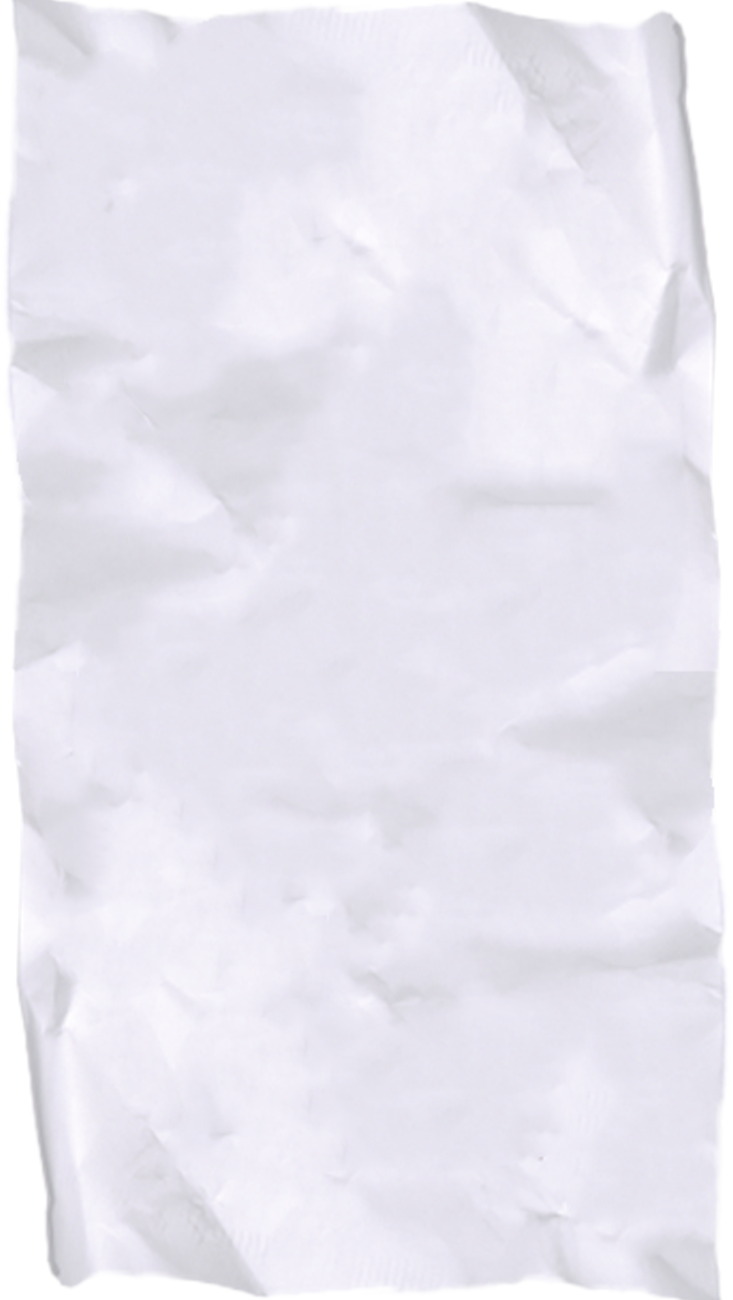
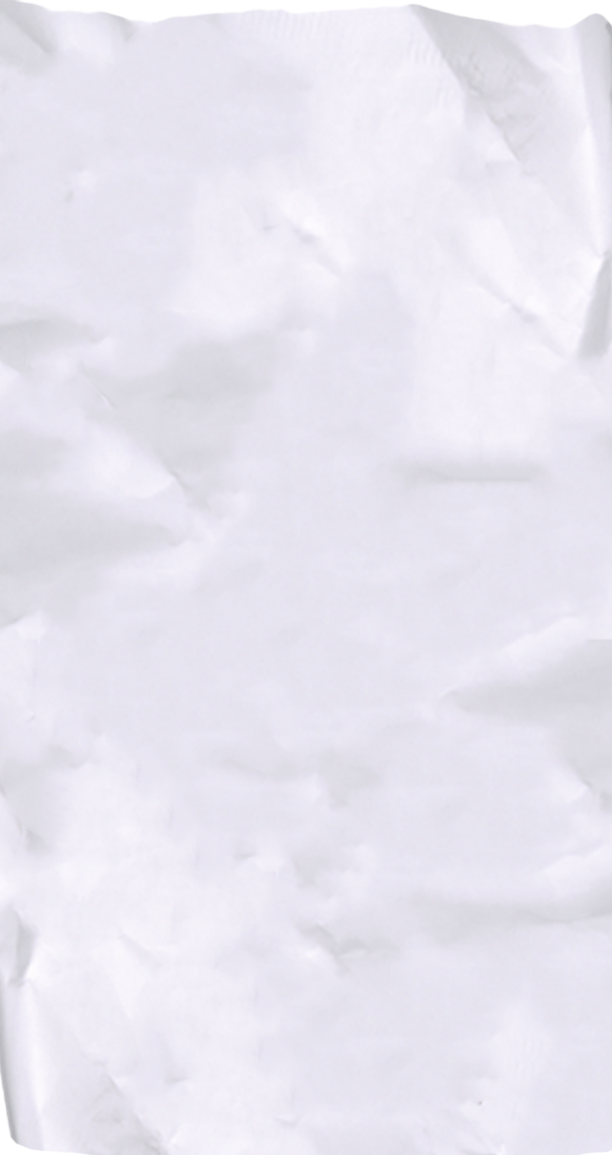
24

diff --git a/index.html b/index.html
@@ -3,12 +3,40 @@
 <head>
     <meta charset="UTF-8">
     <meta name="viewport" content="width=device-width, initial-scale=1.0">
-    <title>Portfolio</title>
+        <!-- SEO Meta Tags -->
+        <meta name="description" content="Victor De Geer is a creative designer and developer, specializing in UX/UI design, web development, and multimedia production. Explore his portfolio and projects.">
+        <meta name="keywords" content="Victor De Geer, designer, developer, UX design, web design, music production, video production, Adobe, Figma, Framer, HTML, CSS, JS, creative portfolio">
+        <meta name="author" content="Victor De Geer">
+    
+        <!-- Open Graph Meta Tags for Social Media -->
+        <meta property="og:title" content="Victor De Geer - Creative Designer & Developer">
+        <meta property="og:description" content="Victor De Geer is a creative designer & developer with expertise in UX/UI design, web programming, and multimedia production. Check out his portfolio!">
+        <meta property="og:image" content="kvittopreview.png"> <!-- Replace with a relevant image for preview -->
+        <meta property="og:url" content="https://vdgportfolio.netlify.app/"> <!-- Replace with your website URL -->
+    
+        <!-- Twitter Card Meta Tags -->
+        <meta name="twitter:card" content="summary_large_image">
+        <meta name="twitter:title" content="Victor De Geer - Creative Designer & Developer">
+        <meta name="twitter:description" content="Victor De Geer is a creative designer & developer with expertise in UX/UI design, web programming, and multimedia production. Check out his portfolio!">
+        <meta name="twitter:image" content="kvittopreview.png"> <!-- Replace with a relevant image for Twitter preview -->
+
+
+    <!-- Title of the page -->
+    <title>Victor De Geer - Creative Designer & Developer</title>
+
+    <!-- Favicon -->
+    <link rel="icon" href="favicon.ico" type="image/x-icon">
+
+    Canonical Link (to avoid duplicate content issues)
+    <link rel="canonical" href="https://vdgportfolio.netlify.app/"> Replace with your actual URL
+
     <link rel="stylesheet" href="styles.css">
 </head>
 <body>
 
     <div id="VideosKognitivet">
+        <img src="arrow-left.svg" alt="left arrow" class="back_arrow">
+
         <div id="IgVideo1">
             <video class="video" controls poster="videos/1.jpg">
                 <source src="videos/1.mp4">
@@ -162,7 +190,7 @@
                 
                 <tbody>
                     <tr>
-                        <td>Saab AB</td>
+                        <td><a href="https://www.saab.com/newsroom/stories/2023/february/decisive-advantage-human-machine-collaboration">Saab AB</a></td>
                         <td>1,20</td>
                         <td>UX Design</td>
                     </tr>

diff --git a/styles.css b/styles.css
@@ -10,7 +10,7 @@ body {
     color: #000;
     background-color:  #000000;
     text-align: center;
-    margin: 0;
+    margin: 0;  
     padding: 0;
 }
 
@@ -23,11 +23,19 @@ body {
     color: #368fef84;
 }
 
+.back_arrow{
+    position: absolute;
+    cursor: pointer;
+    top: 0;
+    left: 0;
+    margin: 5vh;
+    filter: invert(100%);
+}
 
 .portfolio {
     display: block;
-    max-width: 340px;
-    margin: 20px auto;
+    max-width: 366px;
+    margin: 7px auto;
     padding: 20px;
     position: relative; /* Needed for correct positioning of the pseudo-element */
     overflow: hidden; /* Ensure the mask stays within the container */
@@ -41,29 +49,10 @@ body {
     left: 0;
     width: 100%;
     height: 100%;
-    background: url('knöggelpapper.jpg') no-repeat center center;
+    background: url('KvittoSmallKludd.png') no-repeat center center;
     background-size: cover;
     z-index: -1; /* Ensure the background is behind the content */
-    animation: wave-animation 6s infinite linear; /* Apply wave animation */
-}
 
-/* Define keyframes for the wavy animation */
-@keyframes wave-animation {
-    0% {
-        transform: translateX(0) translateY(0);
-    }
-    25% {
-        transform: translateX(5px) translateY(5px);
-    }
-    50% {
-        transform: translateX(-5px) translateY(-5px);
-    }
-    75% {
-        transform: translateX(5px) translateY(5px);
-    }
-    100% {
-        transform: translateX(0) translateY(0);
-    }
 }
 
 h1 {
@@ -109,8 +98,6 @@ h2 {
 p{
     margin: 5px 0;
     font-family: 'Hypermarket-Regular', sans-serif;
-
-
 }
 
 table {
@@ -133,6 +120,19 @@ a:hover {
 table th, table td {
     text-align: left;
     font-family: 'Hypermarket-Regular', sans-serif;
+}
+
+/* To ensure the columns align properly, we will explicitly set widths */
+th:nth-child(1), td:nth-child(1) { 
+    width: 40%;               /* 40% for first column (Skills/Project) */
+}
+
+th:nth-child(2), td:nth-child(2) {
+    width: 20%;               /* 20% for second column (Years) */
+}
+
+th:nth-child(3), td:nth-child(3) {
+    width: 40%;               /* 40% for third column (Program/Area) */
 }
 
 .barcode {
@@ -182,11 +182,13 @@ table th, table td {
 
 .video {
     width: 25vw;
-    height: 25vh;
 }
 
 @media (max-width: 768px) {
     .portfolio {
+        display: block;
+        max-width: 100000px;
         margin: 0px;
+        position: static;
     }
 }

diff --git a/script.js b/script.js
@@ -1,6 +1,14 @@
 const portfolio = document.querySelector(".portfolio");
 const KognitivetLink = document.getElementById("KognitivetLink");
 const VideosKognitivet = document.getElementById("VideosKognitivet");
+const BackArrows = document.getElementsByClassName("back_arrow");
+
+for (let i = 0; i < BackArrows.length; i++) {
+    BackArrows[i].addEventListener('click', function() {
+        window.history.back();  // Go back to the previous page
+        console.log("Back arrow clicked");
+    });
+}
 
 KognitivetLink.addEventListener('click', (event) => {
   console.log("KognitivetLink clicked");
@@ -21,3 +29,6 @@ function copyToClipboard(text) {
     console.error('Failed to copy text: ', err);
   });
 }
+
+
+
